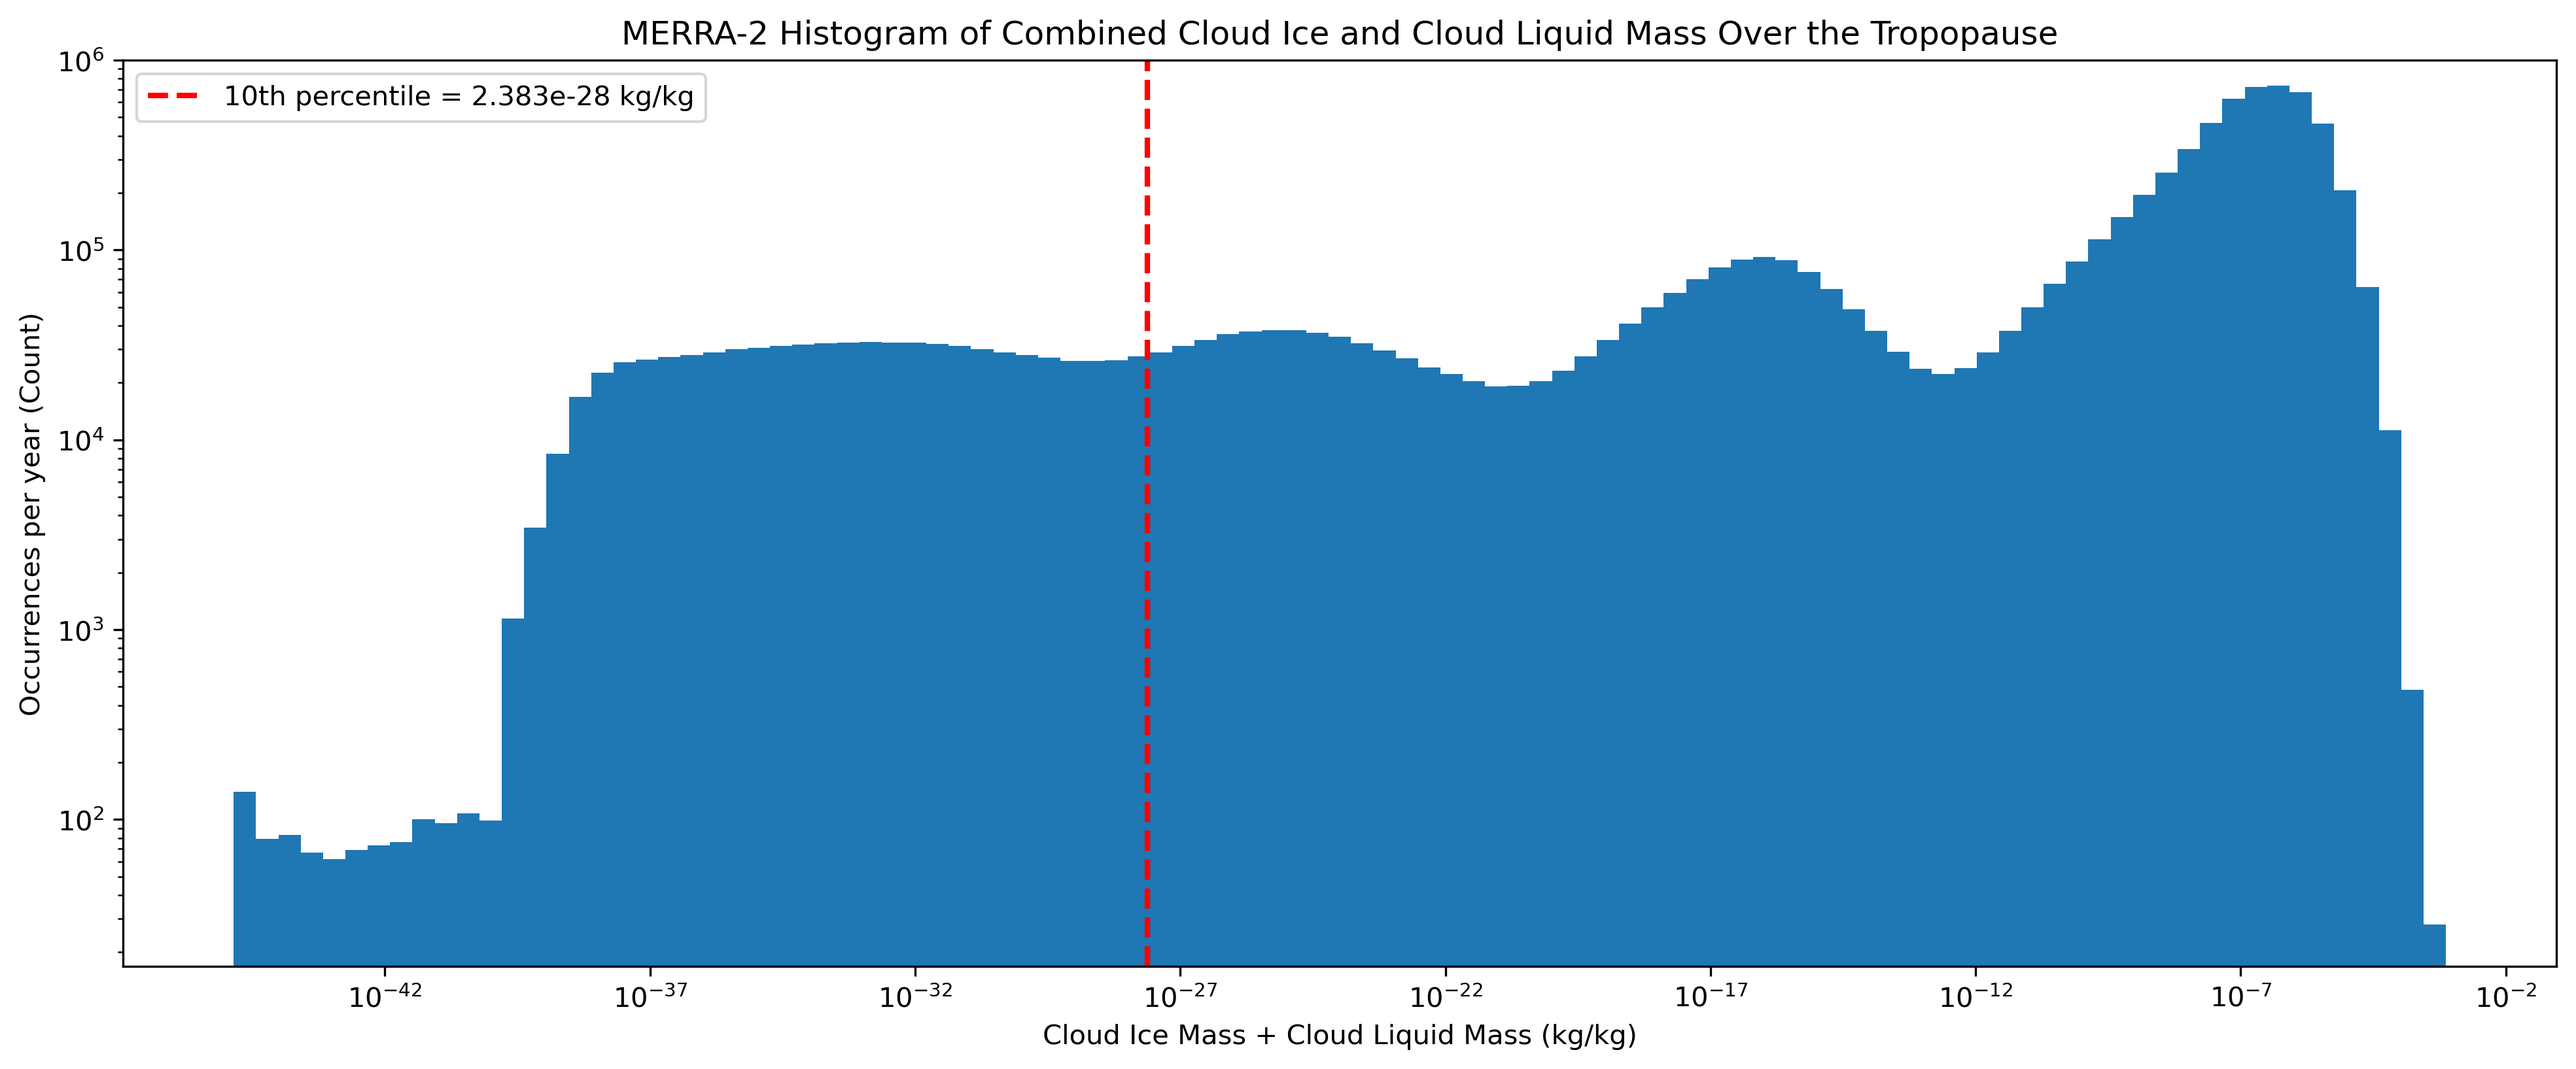
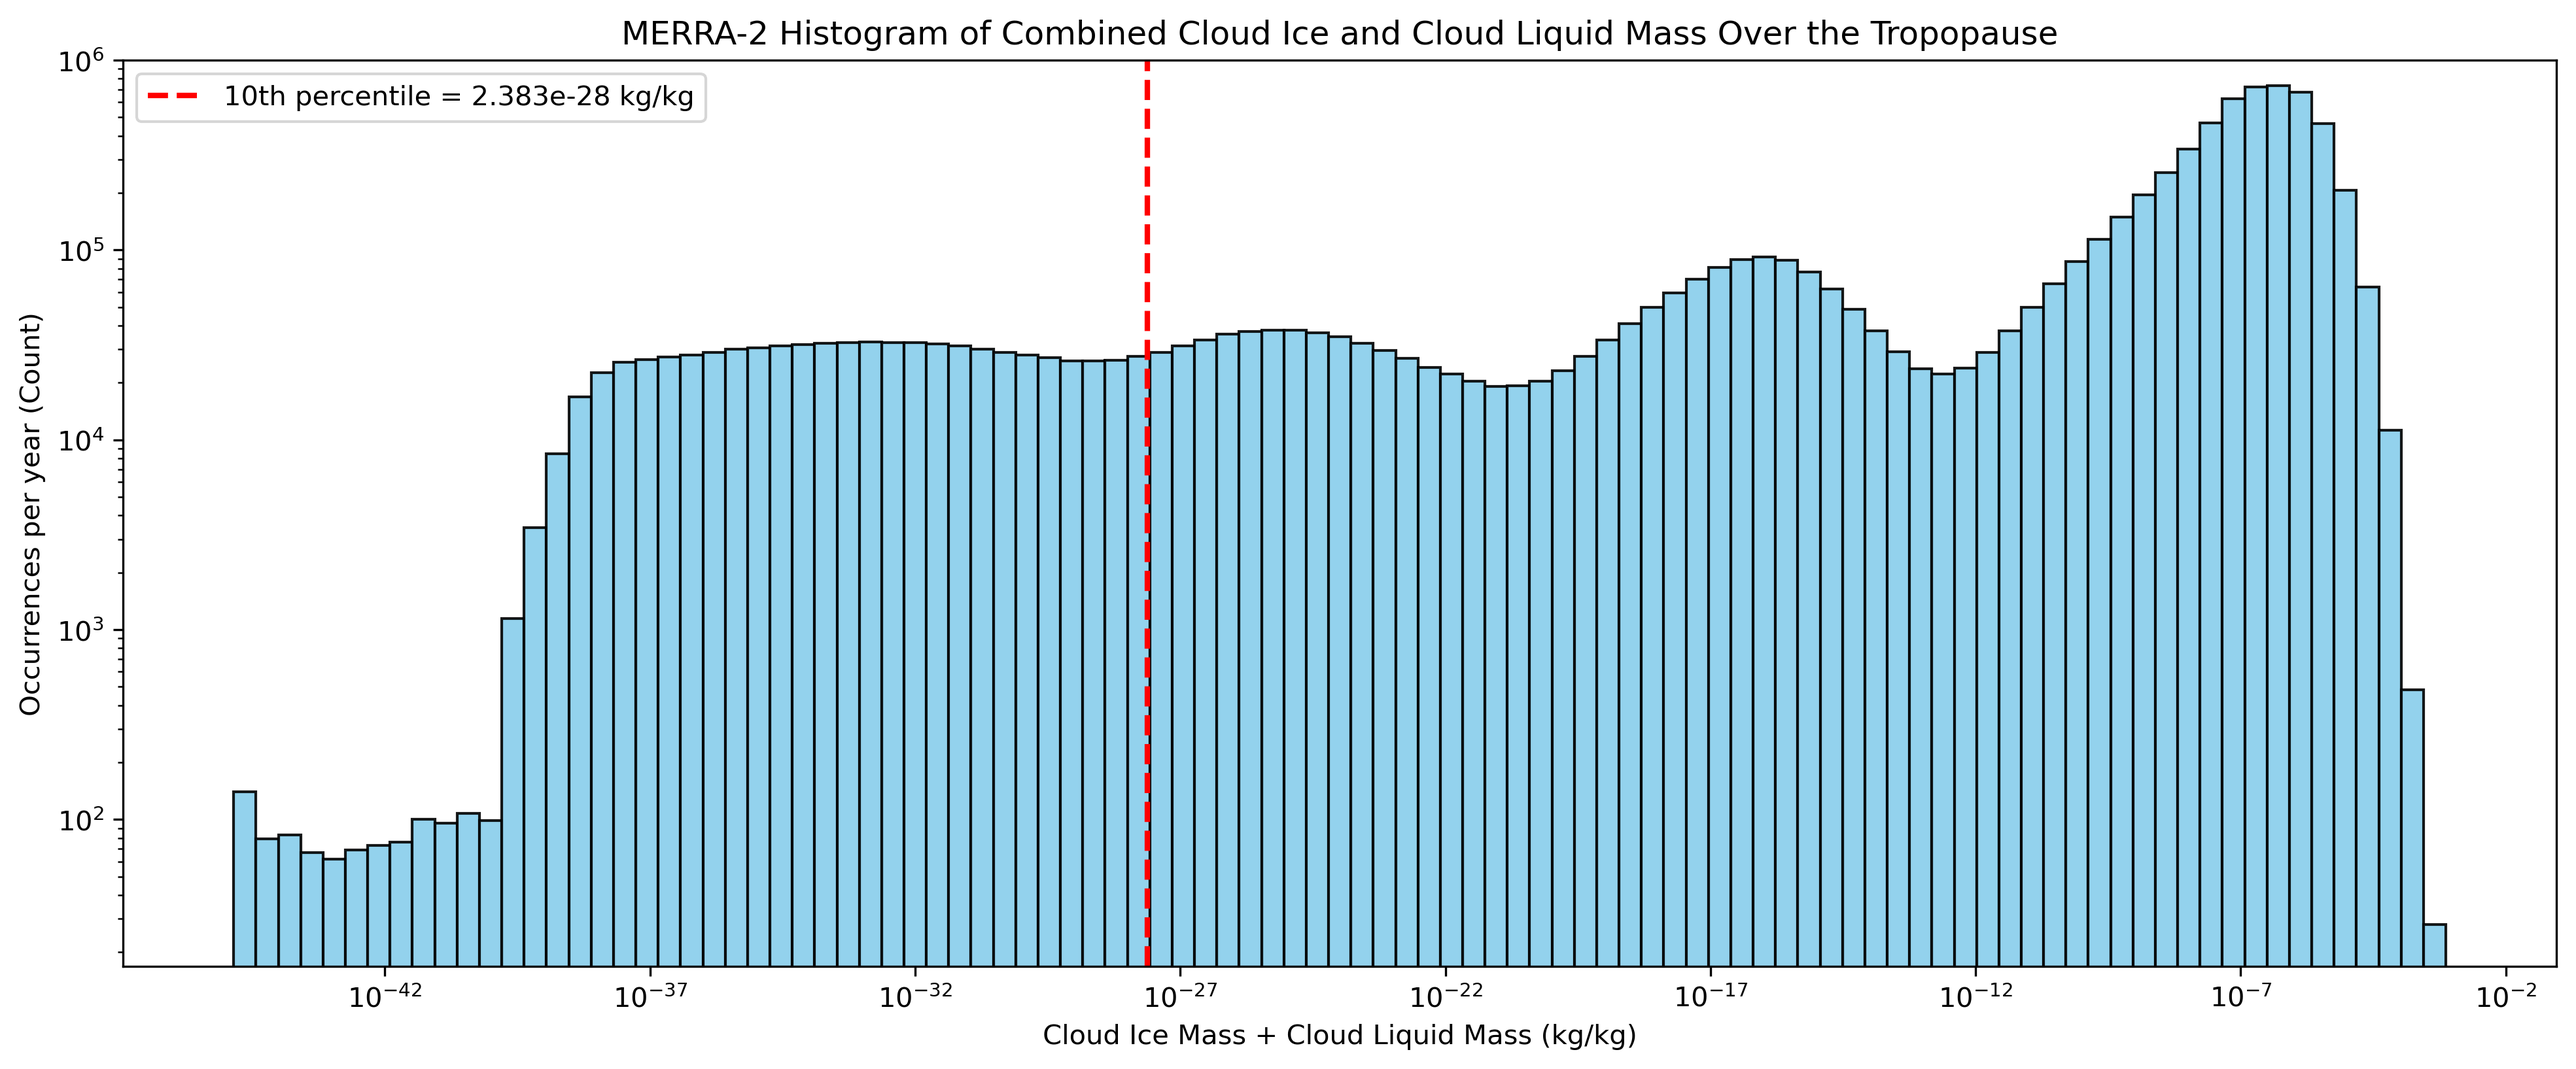
Changed the colors of plots

diff --git a/Scripts/Ice_histograms.py b/Scripts/Ice_histograms.py
@@ -14,7 +14,7 @@ bins_era = np.logspace(np.log10(data_era.min()), np.log10(data_era.max()), 100)
 p10_era = np.percentile(data_era, 10)
 
 plt.figure(figsize=(16,6))
-plt.hist(data_era, bins=bins_era)
+plt.hist(data_era, bins=bins_era, color="skyblue", edgecolor='black', alpha=0.9)
 plt.axvline(p10_era, color="red", linestyle="--",
             linewidth=2, label=f"10th percentile = {p10_era:.3e} kg/kg")
 
@@ -43,7 +43,7 @@ bins_merra = np.logspace(np.log10(data_merra.min()), np.log10(data_merra.max()),
 p10_merra = np.percentile(data_merra, 10)
 
 plt.figure(figsize=(16,6))
-plt.hist(data_merra, bins=bins_merra)
+plt.hist(data_merra, bins=bins_merra, color="skyblue", edgecolor='black', alpha=0.9)
 plt.axvline(p10_merra, color="red", linestyle="--",
             linewidth=2, label=f"10th percentile = {p10_merra:.3e} kg/kg")
 
